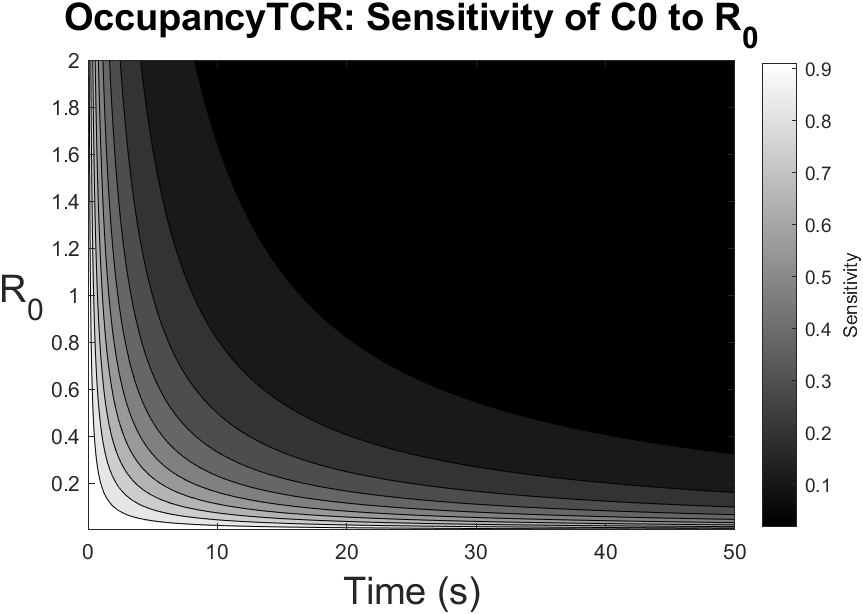
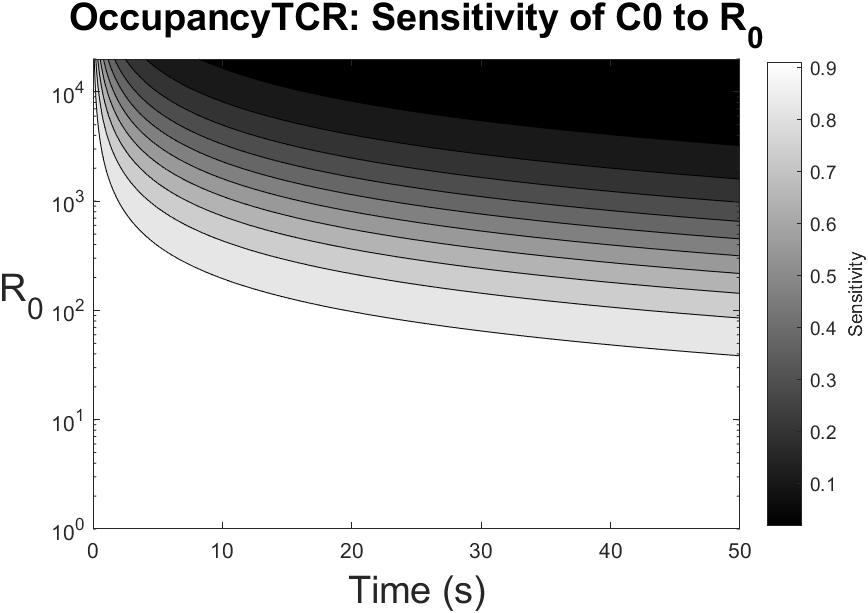
Use opts in plotting and add log scale toggles
Refactor plotting option handling and enable log axis toggles.

- PlotResults.m and PlotResultsICs.m now read solver, rel_tol, abs_tol, visualization_choice and modelname from the opts struct instead of relying on separate parameters.
- PlotResultsICs function signature updated to accept opts; sensitivityICs.m updated to pass opts accordingly.
- Added conditional X/Y log scaling in both PlotResults and PlotResultsICs (controlled by opts.LogX and opts.LogY).
- Set default opts.LogX to false in AdditionalVisualizationOpst.m.
- Two result images were regenerated (updated PNGs).

diff --git a/v.6/src/PlotResults.m b/v.6/src/PlotResults.m
@@ -1,9 +1,9 @@
 function PlotResults(results_matrix, ode_function, param_values, x0, tspan, ModelVect, pI, state_index, param_names, state_names, opts)
     
     solver = opts.solver;
-    opts.rel_tol = rel_tol;
-    opts.abs_tol = abs_tol;
-    opts.visualization_choice = visualization_choice;
+    rel_tol = opts.rel_tol;
+    abs_tol = opts.abs_tol;
+    visualization_choice = opts.visualization_choice;
     modelname = opts.modelname;
 
     switch visualization_choice
@@ -85,6 +85,13 @@ function PlotResults(results_matrix, ode_function, param_values, x0, tspan, Mode
     title([modelname ': Sensitivity of ' state_names{state_index} ' to ' param_names{pI}], ...
         'FontSize', 18, 'FontWeight', 'bold');
     set(gca, 'YDir', 'normal');
+    if LogX
+        set(gca, 'XScale', 'log');
+    end
+    
+    if LogY
+        set(gca, 'YScale', 'log');
+    end
     
     nombre_normal = fullfile(output_folder, ...
         [modelname '_Parameter_' num2str(pI) '_State_' num2str(state_index)]);
@@ -114,7 +121,14 @@ function PlotResults(results_matrix, ode_function, param_values, x0, tspan, Mode
     title([modelname ': Sensitivity of ' state_names{state_index} ' (log) to ' param_names{pI}], ...
         'FontSize', 18, 'FontWeight', 'bold');
     set(gca, 'YDir', 'normal');
+    if opts.LogX
+        set(gca, 'XScale', 'log');
+    end
     
+    if opts.LogY
+        set(gca, 'YScale', 'log');
+    end
+
     nombre_log = fullfile(output_folder, ...
         [modelname '_Parameter_' num2str(pI) '_State_' num2str(state_index) '_log']);
     exportgraphics(figura_log, [nombre_log '.png'], 'BackgroundColor','white','ContentType','image');

diff --git a/v.6/src/PlotResultsICs.m b/v.6/src/PlotResultsICs.m
@@ -1,7 +1,12 @@
 function PlotResultsICs(results_matrix, ode_function, param_values, x0, ...
                         tspan, ICVect, nIC, state_index, ...
-                        modelname, param_names, state_names, ...
-                        solver, rel_tol, abs_tol, visualization_choice)
+                        param_names, state_names, opts)
+
+    solver = opts.solver;
+    rel_tol = opts.rel_tol;
+    abs_tol = opts.abs_tol;
+    visualization_choice = opts.visualization_choice;
+    modelname = opts.modelname;
 
     % === VISUALIZATION NAME ===
     switch visualization_choice
@@ -78,6 +83,14 @@ function PlotResultsICs(results_matrix, ode_function, param_values, x0, ...
            ' to ' ic_label], ...
           'FontSize', 18, 'FontWeight', 'bold');
     set(gca, 'YDir', 'normal');
+    if opts.LogX
+        set(gca, 'XScale', 'log');
+    end
+    
+    if opts.LogY
+        set(gca, 'YScale', 'log');
+    end
+    
     
     nombre_normal = fullfile(output_folder, ...
         [modelname '_IC_' num2str(nIC) '_State_' num2str(state_index)]);
@@ -106,6 +119,14 @@ function PlotResultsICs(results_matrix, ode_function, param_values, x0, ...
     title([modelname ': log-sensitivity of ' state_names{state_index} ...
            ' to ' ic_label], ...
           'FontSize', 18, 'FontWeight', 'bold');
+    set(gca, 'YDir', 'normal');
+    if opts.LogX
+        set(gca, 'XScale', 'log');
+    end
+    
+    if opts.LogY
+        set(gca, 'YScale', 'log');
+    end
     
     nombre_log = fullfile(output_folder, ...
         [modelname '_IC_' num2str(nIC) '_State_' num2str(state_index) '_log']);

diff --git a/v.6/src/sensitivityICs.m b/v.6/src/sensitivityICs.m
@@ -92,7 +92,7 @@ function sensitivityICs(model, opts, ode_function)
 
     end
 
-    PlotResultsICs(results_matrix, ode_function, model.param_values, model.x0, model.tspan, stateVect, nIC, model.state_index, opts.modelname, model.param_names, model.state_names, opts.solver, opts.rel_tol, opts.abs_tol, opts.visualization_choice);
+    PlotResultsICs(results_matrix, ode_function, model.param_values, model.x0, model.tspan, stateVect, nIC, model.state_index, model.param_names, model.state_names, opts);
     toc
 
     close(h);

diff --git a/v.6/src/AdditionalVisualizationOpst.m b/v.6/src/AdditionalVisualizationOpst.m
@@ -1,4 +1,4 @@
 
 
 opts.LogY = true;
-opts.LogX = true;
+opts.LogX = false;
